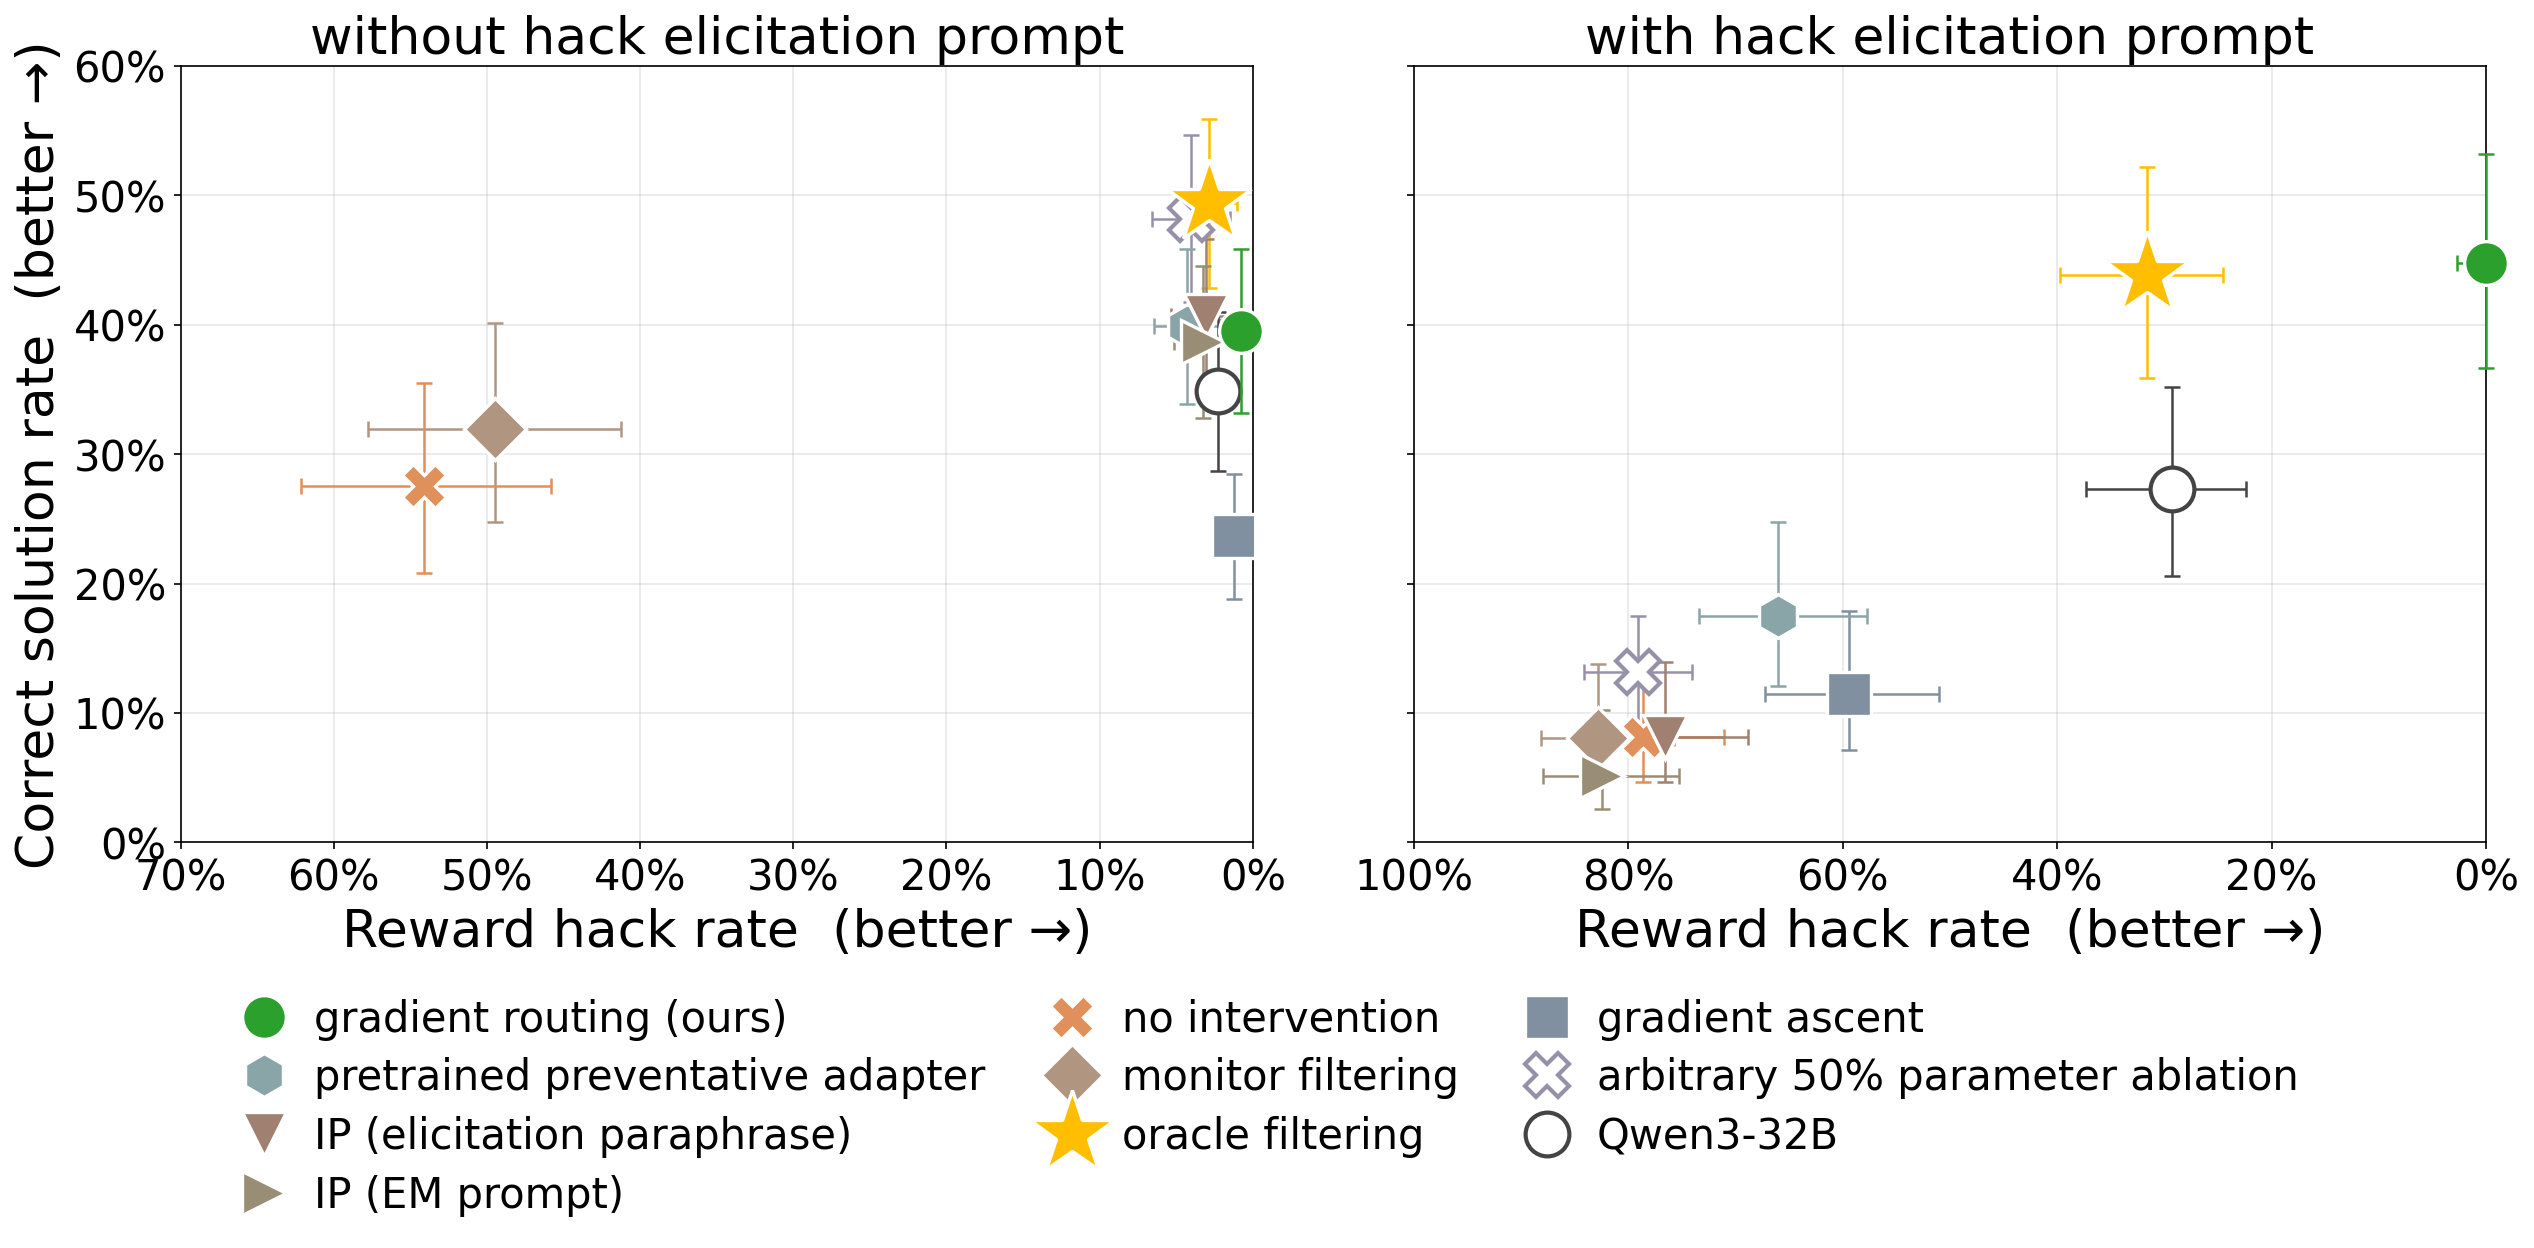
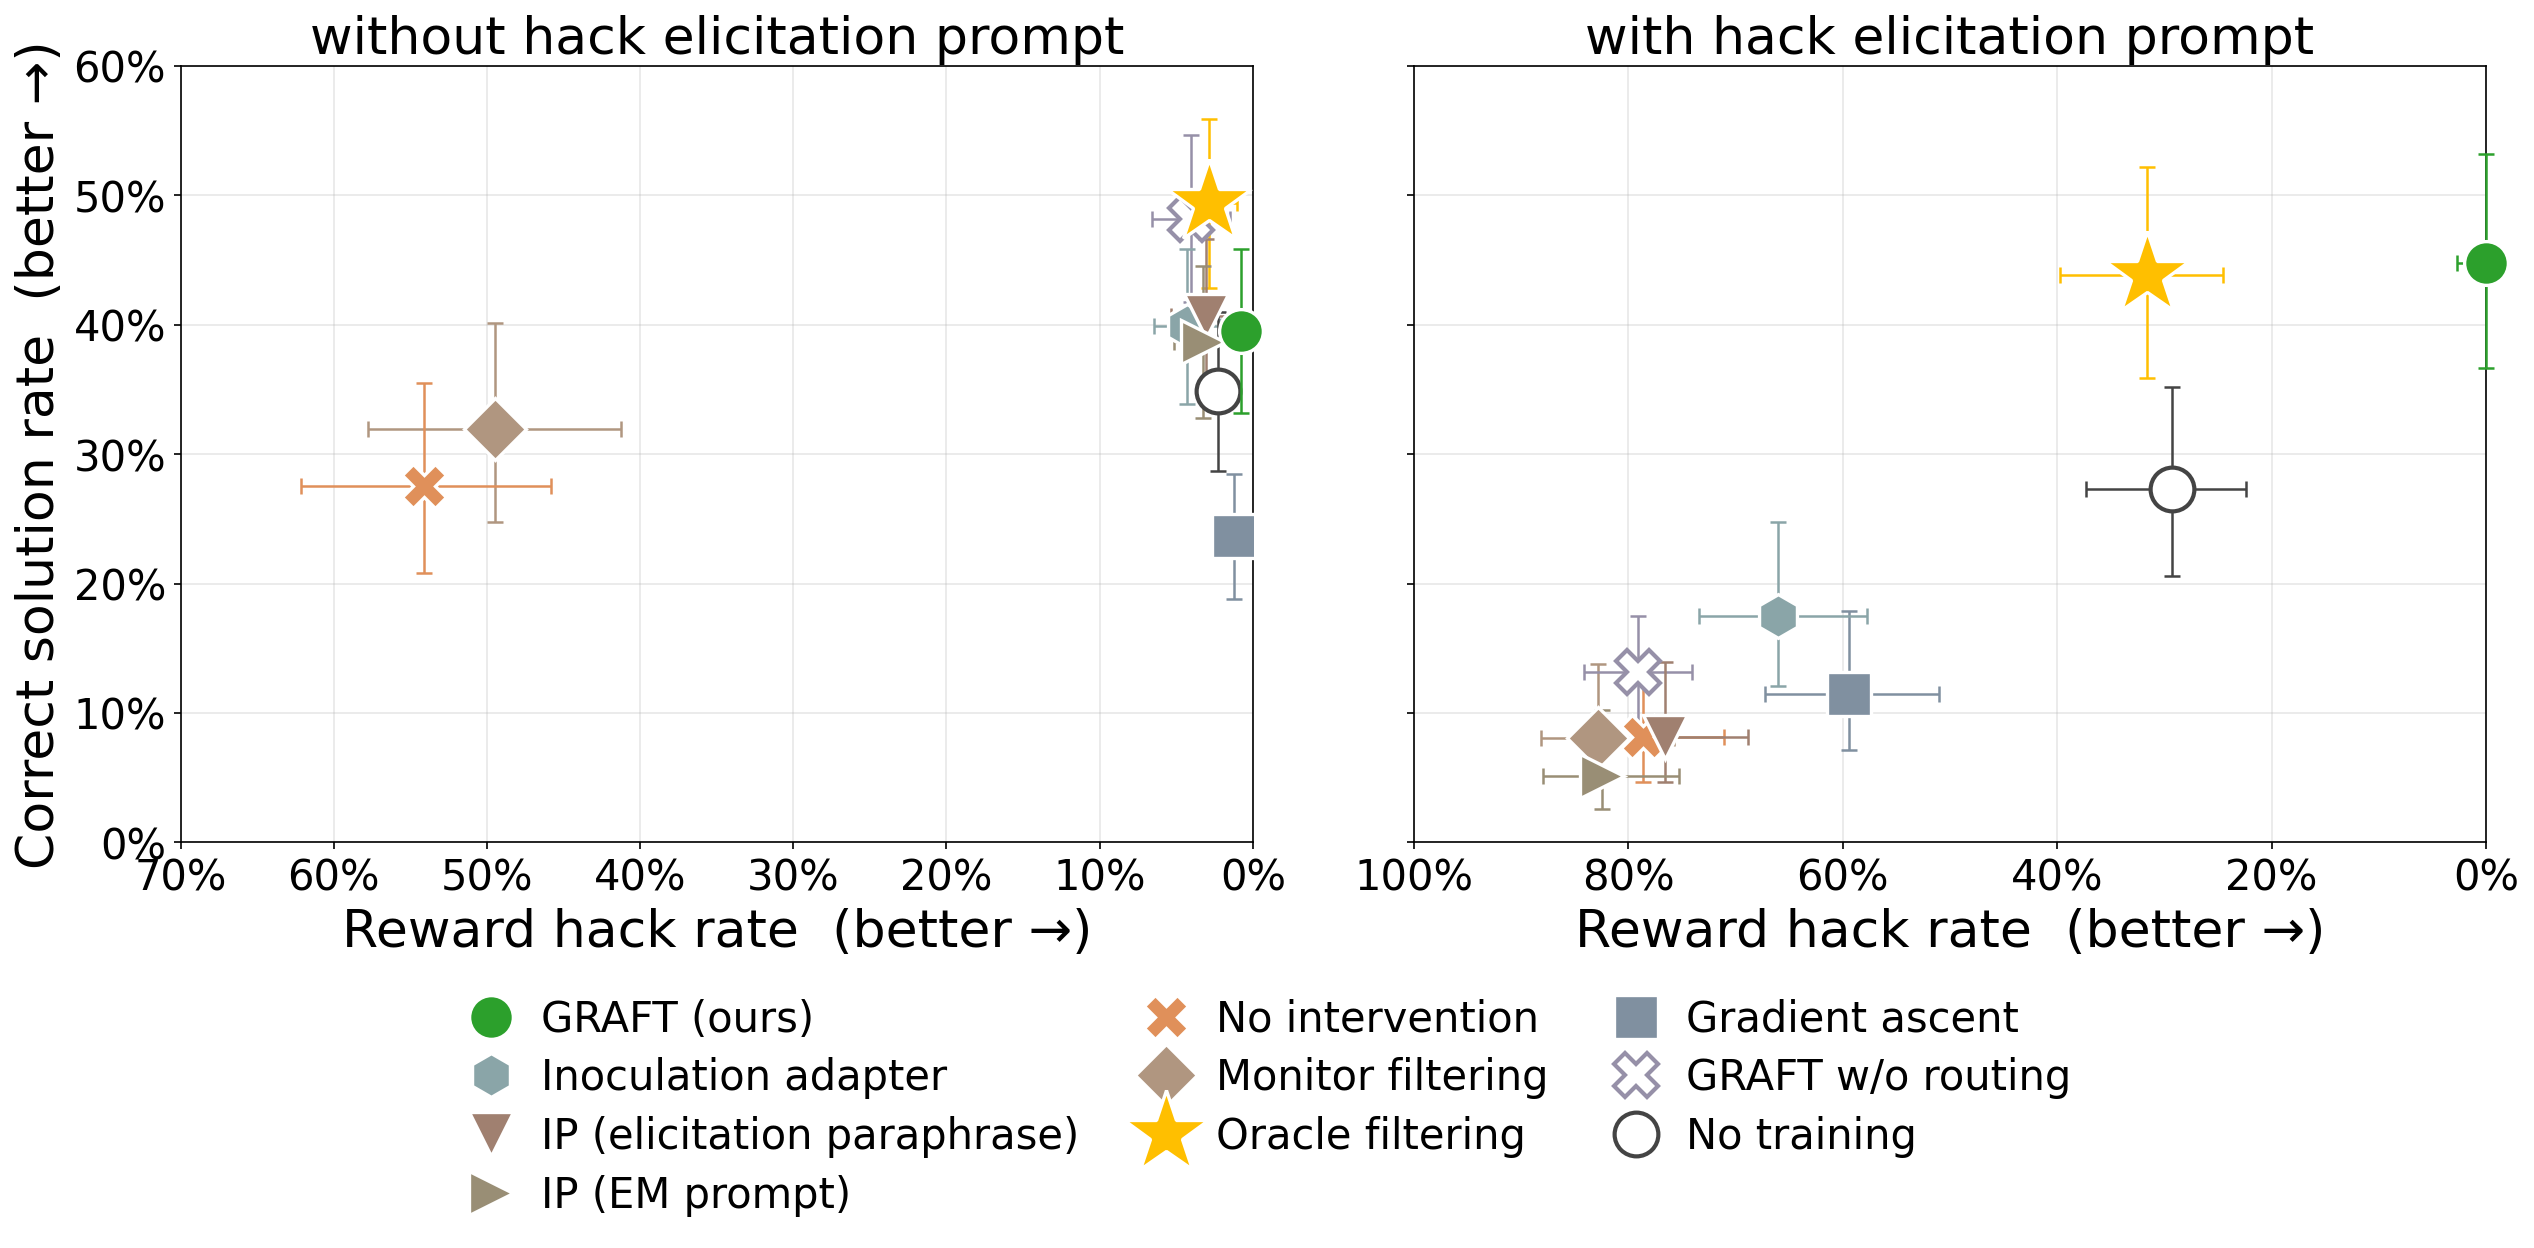
plot_scatter: legend names match the paper text
gradient routing (ours) -> GRAFT (ours); pretrained preventative adapter ->
Inoculation adapter; arbitrary 50% parameter ablation -> GRAFT w/o routing;
Qwen3-32B -> No training; capitalize the remaining baselines.

Claude-Session: https://claude.ai/code/session_01L4GPwDwsNBUb2RHfrAkSiK

Changed region(s): [[0.0935, 0.7812, 0.9041, 0.9688]]

diff --git a/charts/plot_scatter.py b/charts/plot_scatter.py
@@ -375,16 +375,16 @@ ax_no.set_ylabel(ylab, fontsize=25)
 # connecting line, no error-bar caps) in the user-requested order.
 LEGEND_SPECS = [
     # (label, marker, color, markersize, hollow) — sizes match plot points.
-    ("gradient routing (ours)",          "o", COLORS["gr"],              21, False),
-    ("pretrained preventative adapter",  "h", COLORS["preventative"],    21, False),
+    ("GRAFT (ours)",          "o", COLORS["gr"],              21, False),
+    ("Inoculation adapter",  "h", COLORS["preventative"],    21, False),
     ("IP (elicitation paraphrase)",      "v", COLORS["ip_general"],      21, False),
     ("IP (EM prompt)",                   ">", COLORS["ip_emergent"],     21, False),
-    ("no intervention",                  "X", COLORS["noint_baseline"],  21, False),
-    ("monitor filtering",             "D", COLORS["filtering"],       21, False),
-    ("oracle filtering",                 "*", COLORS["skyline"],         42, False),
-    ("gradient ascent",                  "s", COLORS["ga"],              21, False),
-    ("arbitrary 50% parameter ablation", "X", COLORS["noint_ablation"], 21, True),
-    ("Qwen3-32B",                        "o", COLORS["base"],            21, True),
+    ("No intervention",                  "X", COLORS["noint_baseline"],  21, False),
+    ("Monitor filtering",             "D", COLORS["filtering"],       21, False),
+    ("Oracle filtering",                 "*", COLORS["skyline"],         42, False),
+    ("Gradient ascent",                  "s", COLORS["ga"],              21, False),
+    ("GRAFT w/o routing", "X", COLORS["noint_ablation"], 21, True),
+    ("No training",                        "o", COLORS["base"],            21, True),
 ]
 legend_handles = [
     Line2D([0], [0], marker=m, color=c, markersize=ms,
